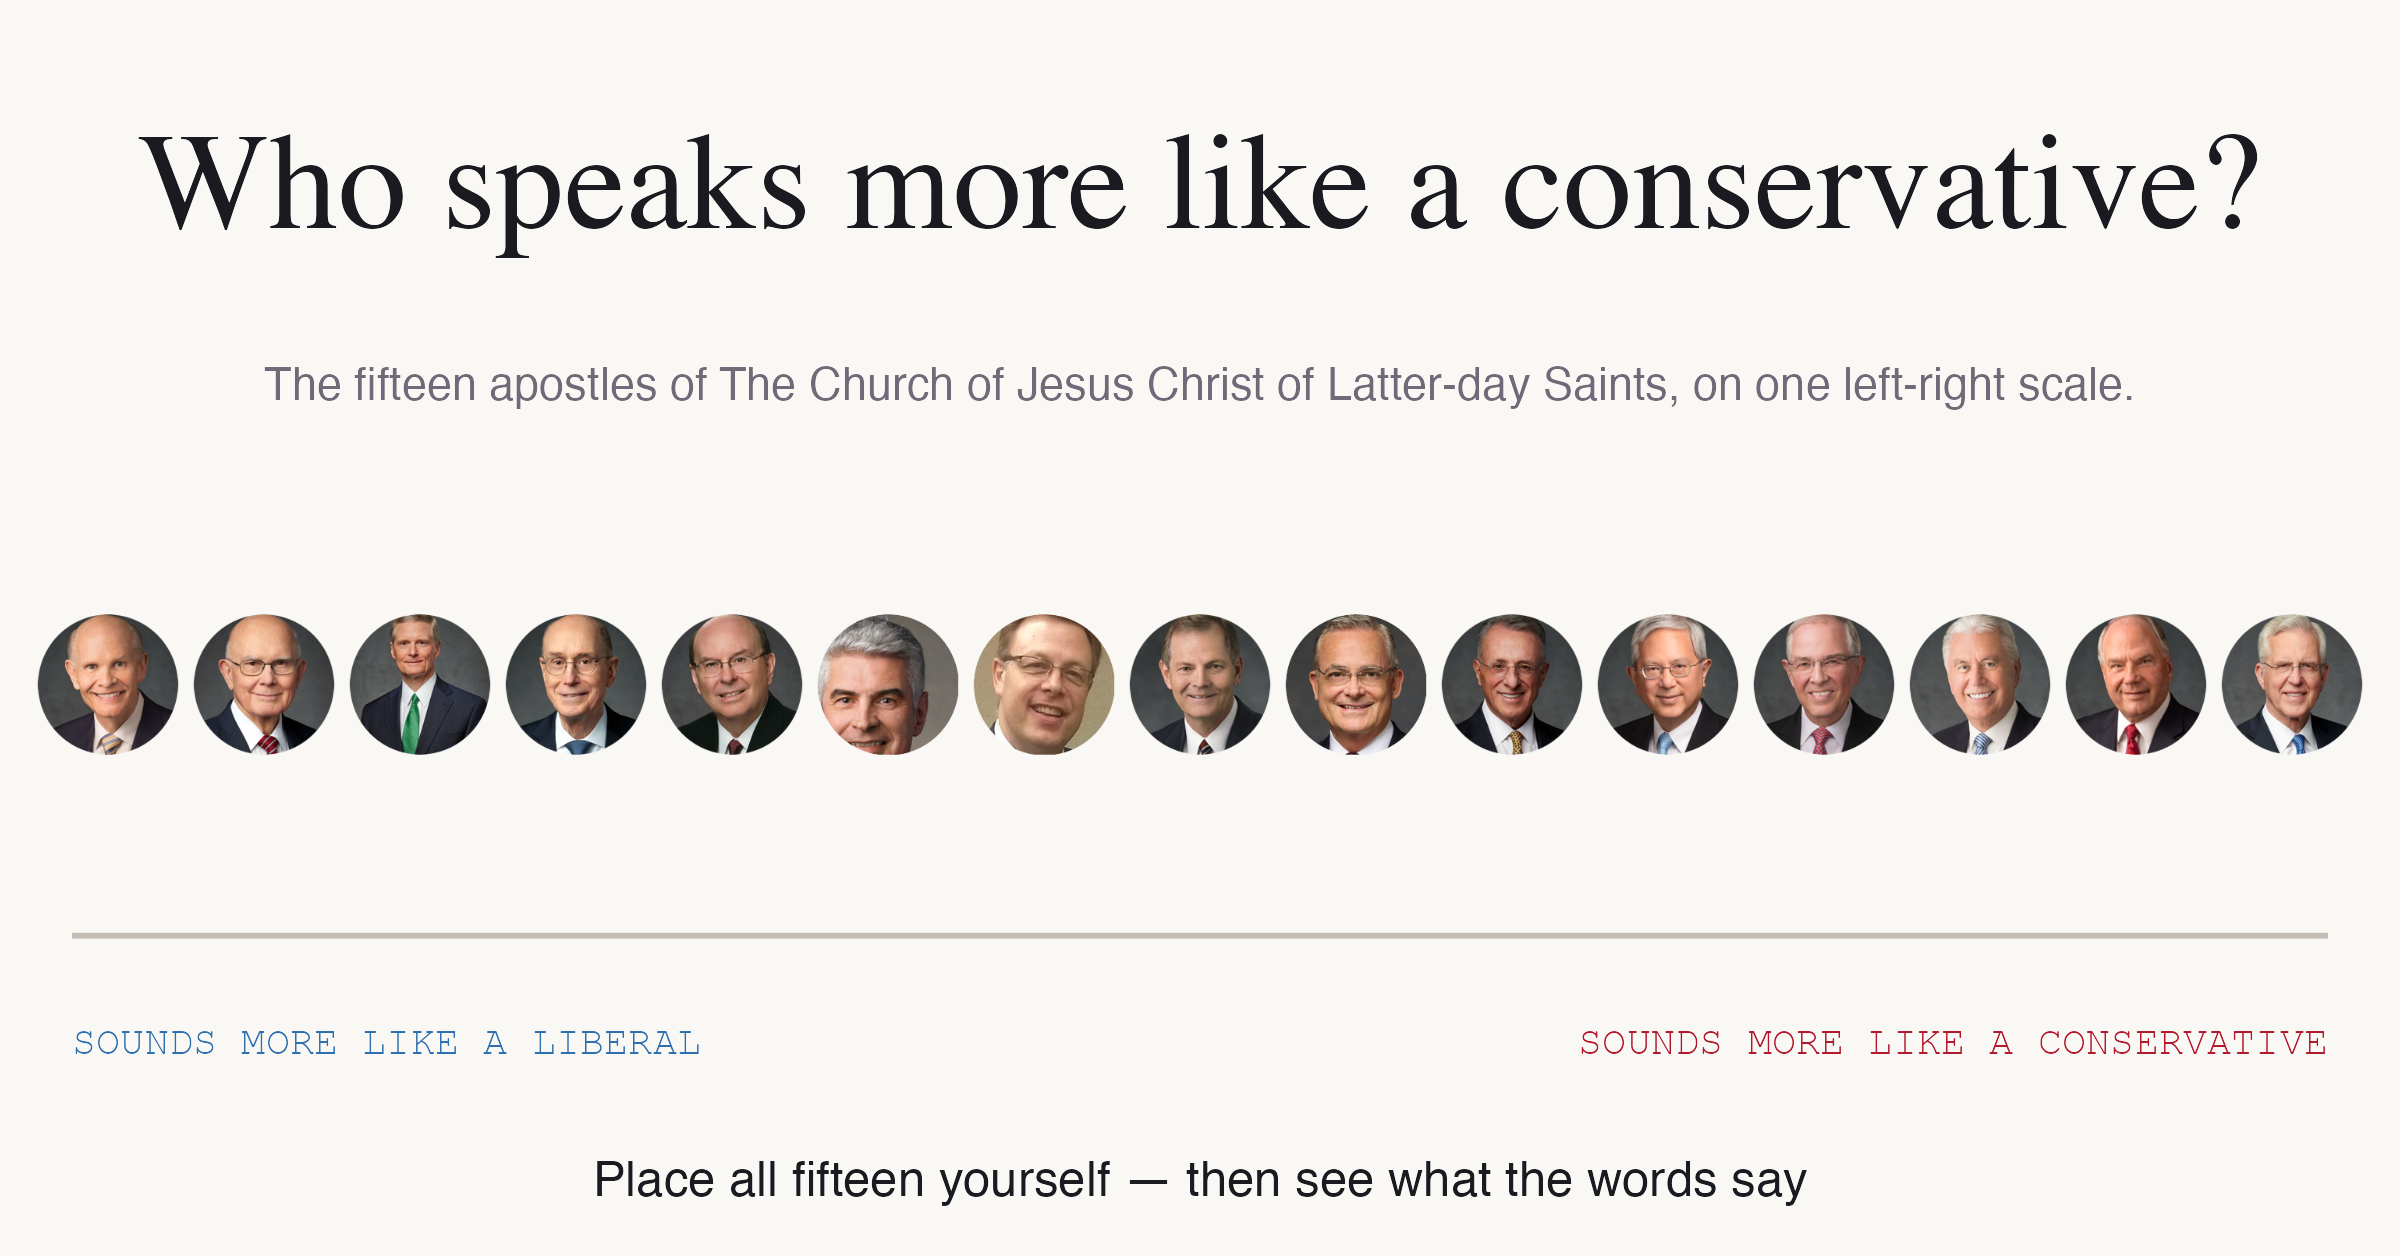
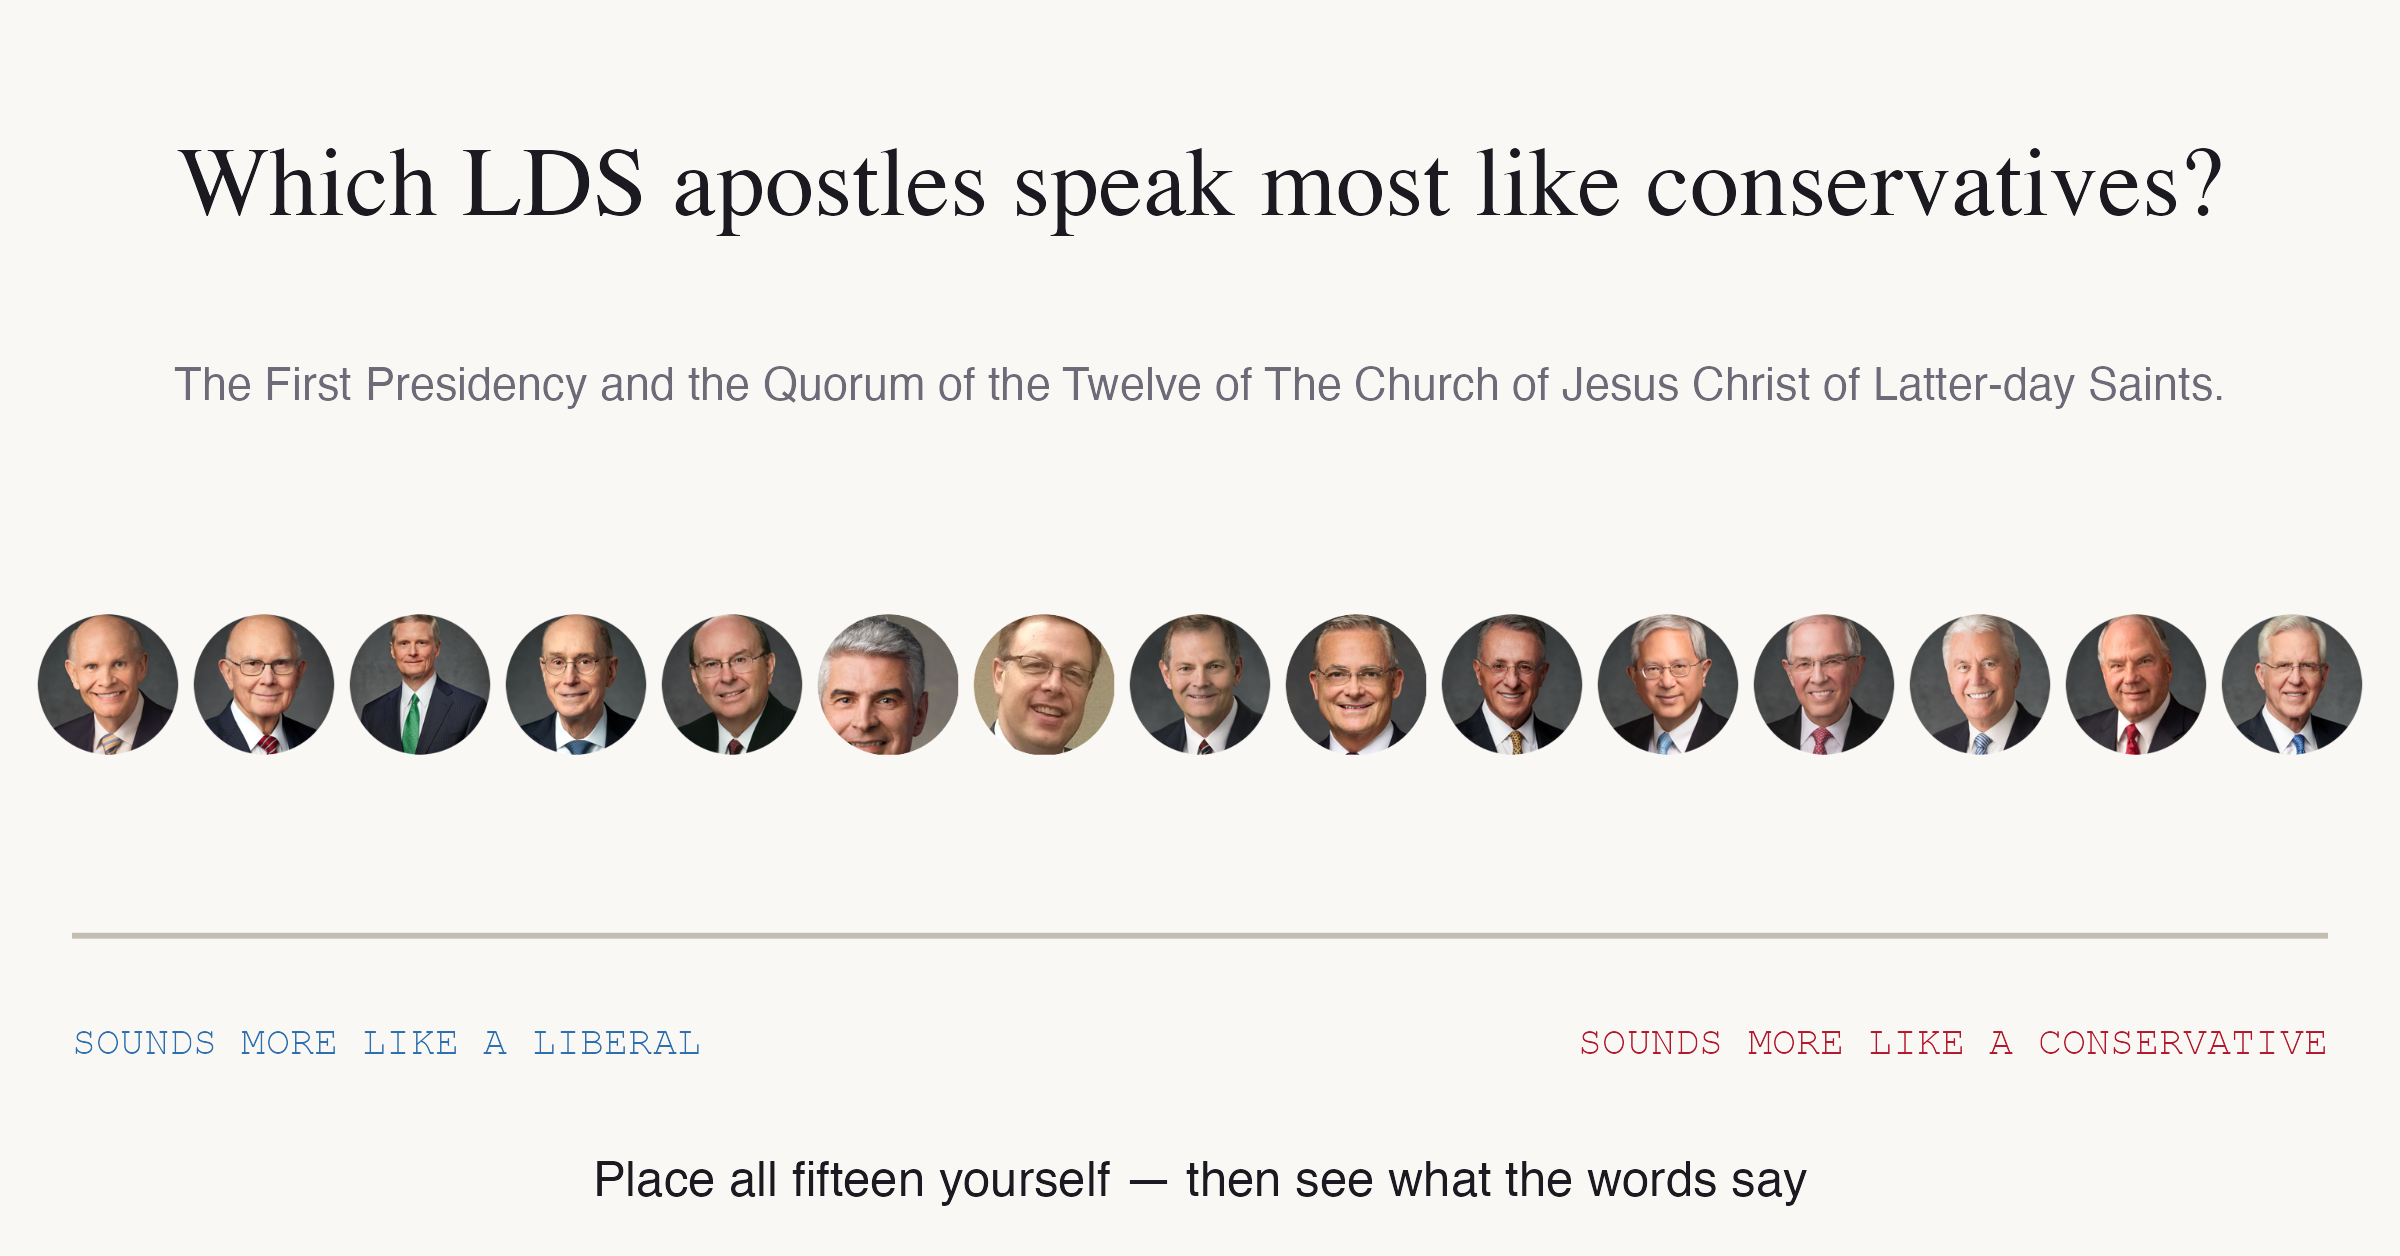
Wire the page to the Apps Script collector; retitle to the LDS Apostle Political Ideology Scale

Changed region(s): [[0.0625, 0.0932, 0.9375, 0.2174], [0.0625, 0.2795, 0.9062, 0.3416]]

diff --git a/index.html b/index.html
@@ -3,19 +3,19 @@
 <head>
 <meta charset="utf-8">
 <meta name="viewport" content="width=device-width, initial-scale=1">
-<title>Who Speaks Like a Conservative</title>
+<title>The LDS Apostle Political Ideology Scale</title>
 
 <!-- Link preview. Absolute URLs point at https://johnholbein.github.io/apostle-scale; built by Code/109_pages_bundle.R. The card itself is Code/105_social_card.R. -->
-<meta name="description" content="The fifteen apostles of The Church of Jesus Christ of Latter-day Saints, on one left-right scale. Place them yourself, then see what a classifier trained on partisan political text says.">
+<meta name="description" content="Place the fifteen apostles of The Church of Jesus Christ of Latter-day Saints on one left-right scale, then see where a classifier trained on partisan political text puts them.">
 <meta property="og:type" content="website">
-<meta property="og:title" content="Who speaks more like a conservative?">
+<meta property="og:title" content="The LDS Apostle Political Ideology Scale">
 <meta property="og:description" content="The First Presidency and Quorum of the Twelve Apostles of The Church of Jesus Christ of Latter-day Saints, on one left-right scale. Place all fifteen yourself — then see what the words say.">
 <meta property="og:image" content="https://johnholbein.github.io/apostle-scale/social_card.png">
 <meta property="og:image:width" content="2400">
 <meta property="og:image:height" content="1256">
-<meta property="og:image:alt" content="Portraits of the fifteen LDS apostles above an empty left-right scale, under the question: who speaks more like a conservative?">
+<meta property="og:image:alt" content="Portraits of the fifteen LDS apostles above an empty left-right scale, under the question: which LDS apostles speak most like conservatives?">
 <meta name="twitter:card" content="summary_large_image">
-<meta name="twitter:title" content="Who speaks more like a conservative?">
+<meta name="twitter:title" content="The LDS Apostle Political Ideology Scale">
 <meta name="twitter:description" content="The First Presidency and Quorum of the Twelve Apostles of The Church of Jesus Christ of Latter-day Saints, on one left-right scale. Place all fifteen yourself — then see what the words say.">
 <meta name="twitter:image" content="https://johnholbein.github.io/apostle-scale/social_card.png">
 <link rel="preconnect" href="https://fonts.googleapis.com">
@@ -201,7 +201,7 @@ hr.sep{border:0; border-top:1px solid var(--rule); margin:3rem 0}
   </figure>
   <div class="col">
     <p class="eyebrow">The Church of Jesus Christ of Latter-day Saints · a measurement experiment</p>
-    <h1>Who speaks more like a conservative?</h1>
+    <h1>Which LDS apostles speak most like conservatives?</h1>
     <p class="lede">Twice a year the fifteen men who lead The Church of Jesus Christ of Latter-day Saints — the First Presidency and the Quorum of the Twelve Apostles — preach at General Conference. Some of them sound more like a conservative politician; some sound more like a liberal one. A classifier that has read millions of words of partisan political speech can tell you which is which.</p>
     <p>Before you see its answer, give yours. Drag each portrait onto the scale — right for the men you think sound more like a conservative, left for the men you think sound more like a liberal. Nothing is revealed until all fifteen are down.</p>
     <div class="note">
@@ -788,9 +788,41 @@ function writeScore(){
     '</div>';
 }
 
-/* ============================================================ persistence */
+/* ============================================================ persistence
+   Two possible homes, decided at run time and never announced to the
+   respondent either way:
+
+   COLLECT_URL        a Google Apps Script endpoint writing to a Sheet. The live
+                      route when this is served from johnholbein.github.io.
+                      Apps Script cannot answer a CORS preflight, so the POST
+                      sends a plain string body and sets NO headers -- that is
+                      what keeps it a "simple" request. Adding a Content-Type
+                      header breaks it, and breaks it before the request is ever
+                      sent, which is a miserable thing to debug.
+
+   claude.use("db")   the artifact database, when this same file is opened as a
+                      private artifact on claude.ai. Inert off it.
+
+   If neither is available the instrument still works end to end; it just keeps
+   nothing. A visitor is never shown a failure they cannot act on.
+   ========================================================================= */
+const COLLECT_URL = "https://script.google.com/macros/s/AKfycbyuLixpIjR7eQh6gvRjZbDfA5MZT56yZ2_7k41wzeOxdn83k-zPdahXKu0uJR6kALQI/exec";
+const COLLECTING  = /^https:\/\//.test(COLLECT_URL);
+
 let DB = null;
 const dbReady = (async () => { try { DB = await window.claude?.use?.("db"); } catch(_){ DB = null; } return DB; })();
+
+function rid(){
+  try {
+    let v = localStorage.getItem("asc_rid");
+    if (!v){
+      v = (crypto.randomUUID ? crypto.randomUUID()
+                             : String(Math.random()).slice(2) + Date.now());
+      localStorage.setItem("asc_rid", v);
+    }
+    return v;
+  } catch(_){ return String(Math.random()).slice(2) + Date.now(); }
+}
 
 async function loadCrowd(){
   const db = await dbReady; if (!db) return;
@@ -813,23 +845,49 @@ async function loadCrowd(){
   } catch(_){ /* the crowd layer is a nicety, never a requirement */ }
 }
 
-async function save(){
-  const db = await dbReady, note = $("#saved");
-  if (!db){ return; }
-  const body = {
-    ts:new Date().toISOString(), mode:S.mode,
-    lds:S.answers.lds, follow:S.answers.follow, pid:S.answers.pid,
-    pos: S.mode === "placed" ? S.pos : null,
+function payload(){
+  const b = {
+    rid: rid(), ts: new Date().toISOString(), mode: S.mode,
+    lds: S.answers.lds, follow: S.answers.follow, pid: S.answers.pid,
+    pos:   S.mode === "placed" ? S.pos   : null,
     order: S.mode === "placed" ? S.order : null,
-    seconds: Math.round((Date.now()-S.started)/1000),
-    width: window.innerWidth, build: DATA.meta.built
+    seconds: Math.round((Date.now() - S.started) / 1000),
+    width: window.innerWidth, build: DATA.meta.built,
+    referrer: (document.referrer || "").slice(0, 120)
   };
   if (S.mode === "placed"){
-    body.rho = +spearman(L.map(d => S.pos[d.slug]), L.map(d => d.z)).toFixed(4);
+    const mine = L.map(d => S.pos[d.slug]), meas = L.map(d => d.z);
+    b.rho = +spearman(mine, meas).toFixed(4);
+    b.pairs_ok = concordant(mine, meas).ok;
   }
-  try { await db.collection("responses").add(body); note.textContent = "Recorded anonymously. Thank you."; }
-  catch(_){ }
+  return b;
 }
+
+async function save(){
+  const note = $("#saved"), body = payload();
+  let kept = false;
+
+  if (COLLECTING){
+    try {
+      await fetch(COLLECT_URL, { method: "POST", body: JSON.stringify(body) });
+      kept = true;
+    } catch(_){
+      try {
+        await fetch(COLLECT_URL, { method: "POST", mode: "no-cors",
+                                   body: JSON.stringify(body) });
+        kept = true;
+      } catch(__){ kept = false; }
+    }
+  }
+
+  if (!kept){
+    const db = await dbReady;
+    if (db){ try { await db.collection("responses").add(body); kept = true; } catch(_){} }
+  }
+
+  note.textContent = kept ? "Recorded anonymously. Thank you." : "";
+}
+
 
 // the two counts in the yardstick box are data, not prose
 (() => {
